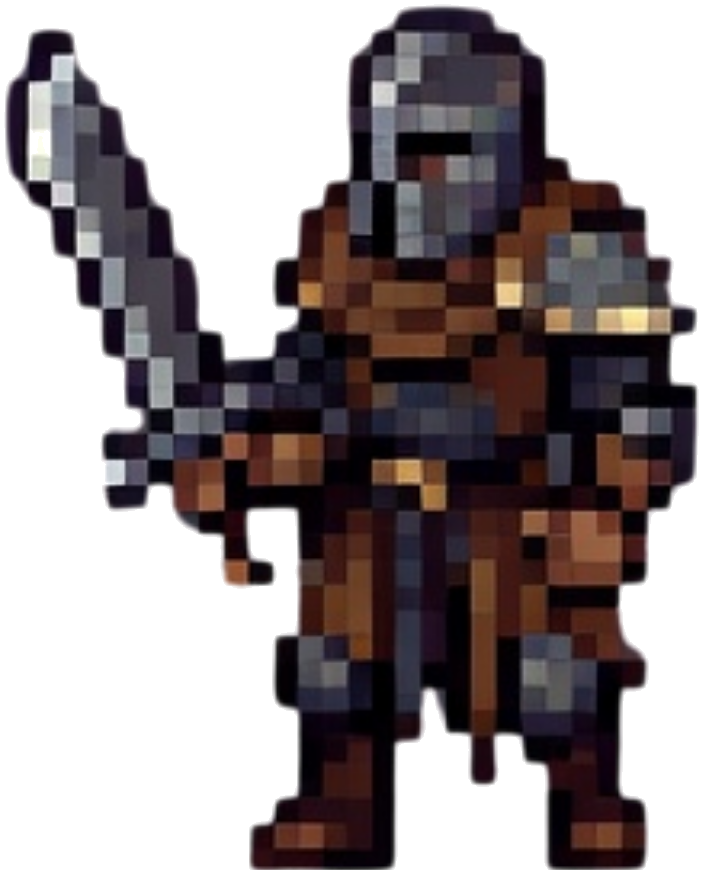
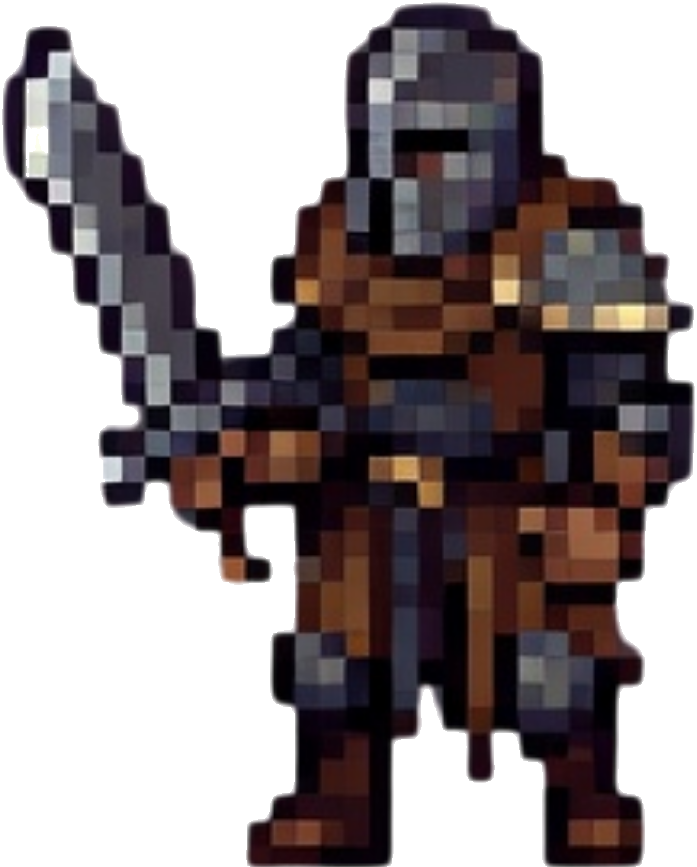
Add mage sprite animation, fix all sprite backgrounds and edges
- Mage: 3 poses extracted from spritesheet (idle, windup, cast)
  with direction switching and cast animation on shoot
- Brute: white edge pixels cleaned, no more halo artifacts
- Imp: edge artifacts cleaned
- Mage tint removed when using sprite texture
- All sprites properly trimmed and background-free

diff --git a/tools/fixSprites.js b/tools/fixSprites.js
@@ -1,0 +1,160 @@
+const { createCanvas, Image } = require('canvas');
+const fs = require('fs');
+
+function removeBackground(canvas) {
+  const ctx = canvas.getContext('2d');
+  const w = canvas.width, h = canvas.height;
+  const imageData = ctx.getImageData(0, 0, w, h);
+  const data = imageData.data;
+
+  // Remove white/gray background
+  for (let i = 0; i < data.length; i += 4) {
+    const r = data[i], g = data[i+1], b = data[i+2];
+    const avg = (r + g + b) / 3;
+    const maxDiff = Math.max(Math.abs(r-avg), Math.abs(g-avg), Math.abs(b-avg));
+    if (maxDiff < 25 && avg > 90) data[i+3] = 0;
+  }
+
+  // Remove white edge pixels near transparency
+  const copy = new Uint8ClampedArray(data);
+  for (let y = 0; y < h; y++) {
+    for (let x = 0; x < w; x++) {
+      const idx = (y * w + x) * 4;
+      if (copy[idx+3] === 0) continue;
+      const r = copy[idx], g = copy[idx+1], b = copy[idx+2];
+      if (r > 170 && g > 170 && b > 170) {
+        let tn = 0, tot = 0;
+        for (let dy = -2; dy <= 2; dy++)
+          for (let dx = -2; dx <= 2; dx++) {
+            if (dx === 0 && dy === 0) continue;
+            const nx = x+dx, ny = y+dy;
+            if (nx < 0 || nx >= w || ny < 0 || ny >= h) { tn++; tot++; continue; }
+            tot++;
+            if (copy[(ny*w+nx)*4+3] === 0) tn++;
+          }
+        if (tn >= 3) data[idx+3] = 0;
+      }
+    }
+  }
+  ctx.putImageData(imageData, 0, 0);
+}
+
+function cleanEdges(canvas) {
+  const ctx = canvas.getContext('2d');
+  const w = canvas.width, h = canvas.height;
+  const imageData = ctx.getImageData(0, 0, w, h);
+  const data = imageData.data;
+  const copy = new Uint8ClampedArray(data);
+
+  for (let y = 0; y < h; y++) {
+    for (let x = 0; x < w; x++) {
+      const idx = (y * w + x) * 4;
+      if (copy[idx+3] === 0) continue;
+      const r = copy[idx], g = copy[idx+1], b = copy[idx+2];
+      if (r > 200 && g > 200 && b > 200) {
+        let tn = 0;
+        for (let dy = -1; dy <= 1; dy++)
+          for (let dx = -1; dx <= 1; dx++) {
+            if (dx === 0 && dy === 0) continue;
+            const nx = x+dx, ny = y+dy;
+            if (nx < 0 || nx >= w || ny < 0 || ny >= h) { tn++; continue; }
+            if (copy[(ny*w+nx)*4+3] === 0) tn++;
+          }
+        if (tn >= 2) data[idx+3] = 0;
+      }
+    }
+  }
+  ctx.putImageData(imageData, 0, 0);
+}
+
+function trimCanvas(canvas) {
+  const ctx = canvas.getContext('2d');
+  const data = ctx.getImageData(0, 0, canvas.width, canvas.height).data;
+  let minX = canvas.width, minY = canvas.height, maxX = 0, maxY = 0;
+  for (let y = 0; y < canvas.height; y++)
+    for (let x = 0; x < canvas.width; x++)
+      if (data[(y * canvas.width + x) * 4 + 3] > 10) {
+        minX = Math.min(minX, x); maxX = Math.max(maxX, x);
+        minY = Math.min(minY, y); maxY = Math.max(maxY, y);
+      }
+  const pad = 2;
+  minX = Math.max(0, minX-pad); minY = Math.max(0, minY-pad);
+  maxX = Math.min(canvas.width-1, maxX+pad); maxY = Math.min(canvas.height-1, maxY+pad);
+  const cw = maxX-minX+1, ch = maxY-minY+1;
+  const t = createCanvas(cw, ch);
+  t.getContext('2d').drawImage(canvas, minX, minY, cw, ch, 0, 0, cw, ch);
+  return t;
+}
+
+function flipH(canvas) {
+  const f = createCanvas(canvas.width, canvas.height);
+  const ctx = f.getContext('2d');
+  ctx.translate(canvas.width, 0); ctx.scale(-1, 1);
+  ctx.drawImage(canvas, 0, 0);
+  return f;
+}
+
+// === Fix Brute white edges ===
+console.log('--- Brute edge cleanup ---');
+for (const frame of ['right0','right1','right2','left0','left1','left2']) {
+  const p = 'assets/enemy/brute/' + frame + '.png';
+  const img = new Image();
+  img.src = fs.readFileSync(p);
+  const c = createCanvas(img.width, img.height);
+  c.getContext('2d').drawImage(img, 0, 0);
+  cleanEdges(c);
+  const trimmed = trimCanvas(c);
+  fs.writeFileSync(p, trimmed.toBuffer('image/png'));
+  console.log(frame + ': ' + trimmed.width + 'x' + trimmed.height);
+}
+
+// === Extract 3 Mage poses ===
+console.log('\n--- Mage extraction ---');
+const mageSheet = new Image();
+mageSheet.src = fs.readFileSync('reference/7.png');
+
+// Positions from visual analysis of topleft quadrant
+const poses = [
+  { x: 75, y: 20, w: 155, h: 315 },   // pose 1: staff right
+  { x: 270, y: 20, w: 135, h: 315 },   // pose 2: idle front
+  { x: 415, y: 20, w: 175, h: 315 },   // pose 3: staff right, different
+];
+
+poses.forEach((pos, i) => {
+  const c = createCanvas(pos.w, pos.h);
+  c.getContext('2d').drawImage(mageSheet, pos.x, pos.y, pos.w, pos.h, 0, 0, pos.w, pos.h);
+  removeBackground(c);
+  const trimmed = trimCanvas(c);
+
+  const rname = ['right0', 'right1', 'right2'][i];
+  fs.writeFileSync('assets/enemy/mage/' + rname + '.png', trimmed.toBuffer('image/png'));
+
+  const flipped = flipH(trimmed);
+  const lname = ['left0', 'left1', 'left2'][i];
+  fs.writeFileSync('assets/enemy/mage/' + lname + '.png', flipped.toBuffer('image/png'));
+
+  console.log(rname + ': ' + trimmed.width + 'x' + trimmed.height);
+});
+
+// Main sprite = idle
+const main = new Image();
+main.src = fs.readFileSync('assets/enemy/mage/right0.png');
+const mc = createCanvas(main.width, main.height);
+mc.getContext('2d').drawImage(main, 0, 0);
+fs.writeFileSync('assets/enemy/mage/mage.png', mc.toBuffer('image/png'));
+
+// === Fix Imp edges ===
+console.log('\n--- Imp edge cleanup ---');
+for (const frame of ['right0','right1','right2','left0','left1','left2','imp']) {
+  const p = 'assets/enemy/imp/' + frame + '.png';
+  if (!fs.existsSync(p)) continue;
+  const img = new Image();
+  img.src = fs.readFileSync(p);
+  const c = createCanvas(img.width, img.height);
+  c.getContext('2d').drawImage(img, 0, 0);
+  cleanEdges(c);
+  fs.writeFileSync(p, c.toBuffer('image/png'));
+  console.log(frame + ' cleaned');
+}
+
+console.log('\nAll sprites fixed!');

diff --git a/js/enemy.js b/js/enemy.js
@@ -301,13 +301,13 @@ function spawnEnemy(xCoordinates, yCoordinates, enemyType) {
       tint = null;
       break; // Flammenweber
     default:
-      key = tex('sprite_mage', 'enemyMage');
+      key = scene.textures?.exists('mage_right0') ? 'mage_right0' : tex('sprite_mage', 'enemyMage');
       speed = 60;
       hp = 2;
       isRanged = true;
       rangedAttackRange = 560;
-      tint = 0xaa00ff;
-      break; // Magier - lila
+      tint = key.startsWith('mage_') ? null : (key === 'sprite_mage' ? null : 0xaa00ff);
+      break; // Magier
   }
 
   // 3) Sprite mit richtigem Key erzeugen
@@ -440,6 +440,14 @@ function spawnEnemy(xCoordinates, yCoordinates, enemyType) {
     enemy.avoidWeight = 1.1;
     enemy.sepRadius = 120;
     enemy.cohRadius = 280;
+    // Sprite-based mage with animation frames
+    if (key.startsWith('mage_')) {
+      const mageH = enemy.height || 268;
+      enemy.setScale(48 / mageH);
+      enemy.isMage = true;
+      enemy.mageDirection = 'right';
+      enemy.mageAttacking = false;
+    }
   }
 
   const difficulty = getDifficultyMultiplierValue();
@@ -641,9 +649,17 @@ function handleEnemies(time, delta = 16) {
       if (newDir !== enemy.impDirection) {
         enemy.impDirection = newDir;
         const idleKey = `imp_${newDir}0`;
-        if (this.textures.exists(idleKey)) {
-          enemy.setTexture(idleKey);
-        }
+        if (this.textures.exists(idleKey)) enemy.setTexture(idleKey);
+      }
+    }
+
+    // Mage sprite animation based on movement direction
+    if (enemy.isMage && !enemy.mageAttacking) {
+      const newDir = desired.x >= 0 ? 'right' : 'left';
+      if (newDir !== enemy.mageDirection) {
+        enemy.mageDirection = newDir;
+        const idleKey = `mage_${newDir}0`;
+        if (this.textures.exists(idleKey)) enemy.setTexture(idleKey);
       }
     }
 
@@ -673,6 +689,23 @@ function handleEnemies(time, delta = 16) {
             shootProjectile.call(this, enemy);
           }
           enemy.lastShotTime = time;
+
+          // Mage cast animation on shoot
+          if (enemy.isMage && !enemy.mageAttacking) {
+            enemy.mageAttacking = true;
+            const dir = enemy.mageDirection || 'right';
+            const sc = this;
+            if (sc.textures.exists('mage_' + dir + '1')) enemy.setTexture('mage_' + dir + '1');
+            sc.time.delayedCall(250, () => {
+              if (enemy && enemy.active && sc.textures.exists('mage_' + dir + '2')) enemy.setTexture('mage_' + dir + '2');
+            });
+            sc.time.delayedCall(500, () => {
+              if (enemy && enemy.active) {
+                enemy.mageAttacking = false;
+                if (sc.textures.exists('mage_' + dir + '0')) enemy.setTexture('mage_' + dir + '0');
+              }
+            });
+          }
         }
       }
     } else {

diff --git a/js/scenes/startScene.js b/js/scenes/startScene.js
@@ -90,6 +90,14 @@ StartScene.prototype.preload = function () {
   this.load.image('imp_right1', 'assets/enemy/imp/right1.png');
   this.load.image('imp_right2', 'assets/enemy/imp/right2.png');
 
+  // Mage enemy sprites
+  this.load.image('mage_left0', 'assets/enemy/mage/left0.png');
+  this.load.image('mage_left1', 'assets/enemy/mage/left1.png');
+  this.load.image('mage_left2', 'assets/enemy/mage/left2.png');
+  this.load.image('mage_right0', 'assets/enemy/mage/right0.png');
+  this.load.image('mage_right1', 'assets/enemy/mage/right1.png');
+  this.load.image('mage_right2', 'assets/enemy/mage/right2.png');
+
   // Enemy sprites (pixel art)
   this.load.image('sprite_imp', 'assets/enemy/imp/imp.png');
   this.load.image('sprite_archer', 'assets/enemy/archer/archer.png');
